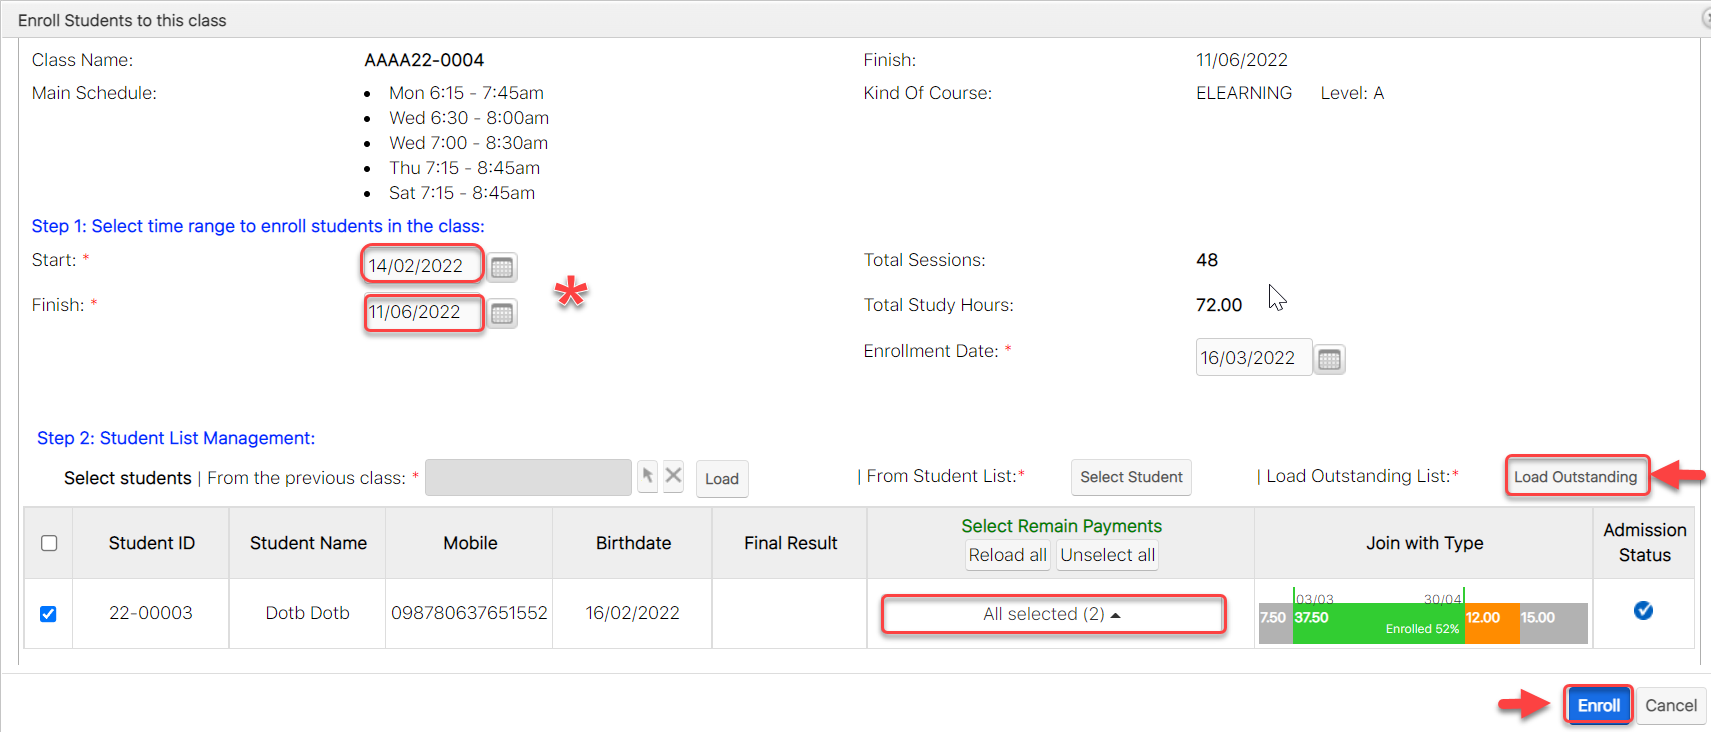
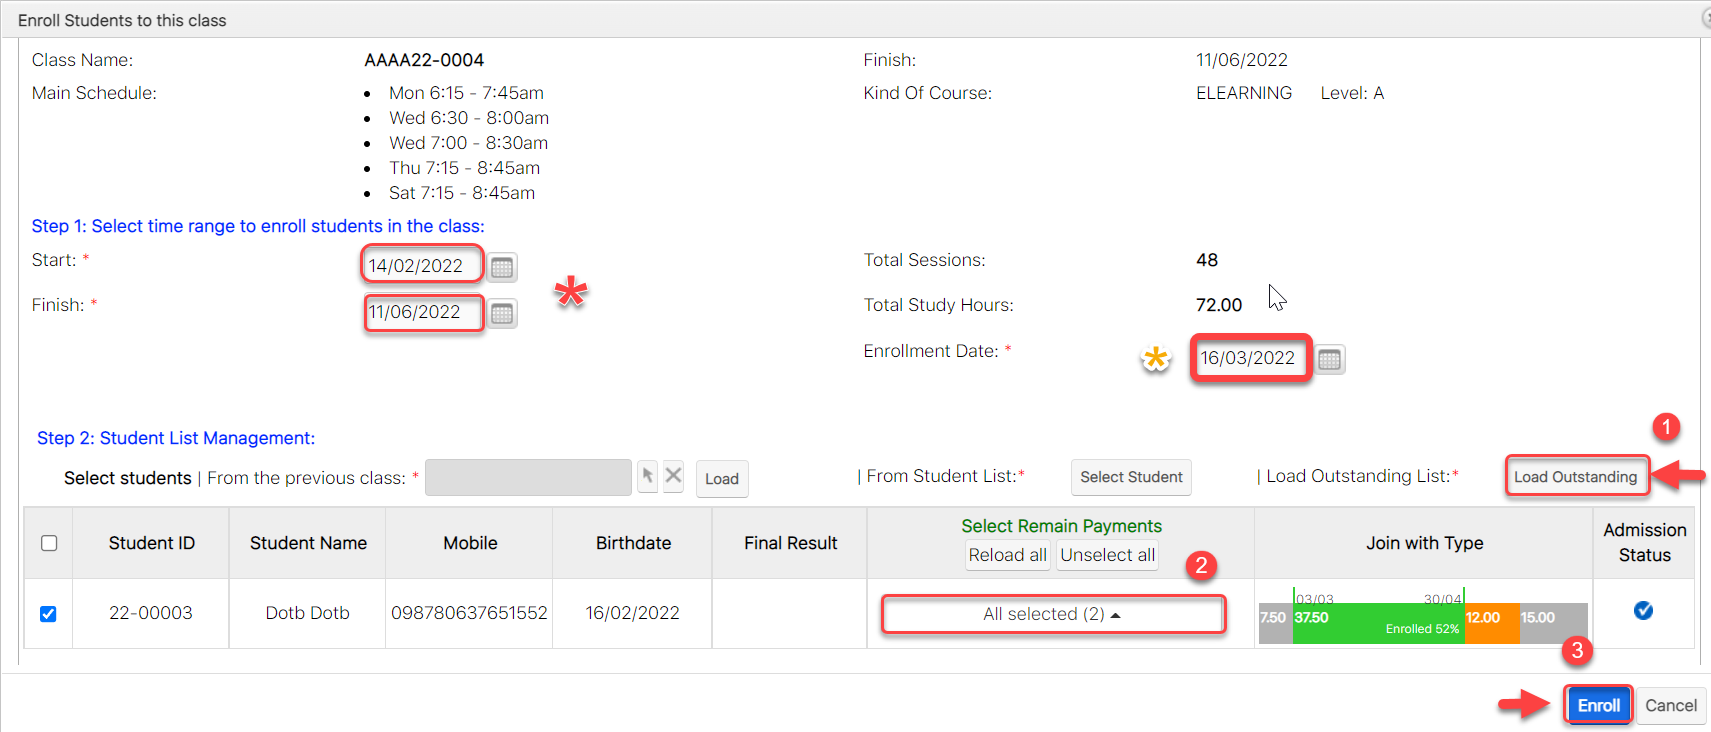
GitBook: [#342] No subject

diff --git a/tinh-nang-cap-nhat-moi/chinh-sua-clear-outstanding.md b/tinh-nang-cap-nhat-moi/chinh-sua-clear-outstanding.md
@@ -8,7 +8,7 @@ Với payment học viên mua, bạn chỉ cần chọn thời gian học viên 
 
 ![](../.gitbook/assets/HocDemo1.png)
 
-> Bước 2: Tại màn hình chi tiết Classes, Click tab Subpanel “**Student Situations**”. Sau đó click chọn "<mark style="color:green;">**Enroll**</mark>"
+> Bước 2: Tại màn hình chi tiết Classes, Click tab Subpanel “**Student Situations**”. Sau đó click chọn "<mark style="color:green;">**Enroll Students**</mark>" hoặc "**Enroll**".
 
 ![](../.gitbook/assets/edit1.png)
 
@@ -28,14 +28,16 @@ Ghi chú:
 :point\_right:Học viên k đăng kí học trong 1 khoảng thời gian (Màu xám)
 {% endhint %}
 
-> Bước 3: click <mark style="color:orange;">**Load Outstanding ,**</mark> hệ thống sẽ load danh sách học viên đang học nợ trong Lớp, tiếp theo chọn payment mà học viên đã mua để enroll vòa lớp (mặc định hẹ thống sẽ tự lấy payment nếu cùng KOC), có thể  chọn 1 hoặc nhiều học viên để ghi danh học viên (Clear Outstanding). Cuối cùng click <mark style="color:green;">**Enroll**</mark> để ghi danh học viên.
+> Bước 3: click <mark style="color:orange;">**Load Outstanding**</mark>** (1), **<mark style="color:orange;">****</mark> hệ thống sẽ load danh sách học viên đang học nợ trong Lớp, tiếp theo chọn payment (2) mà học viên đã mua để enroll vòa lớp (mặc định hẹ thống sẽ tự lấy payment nếu cùng KOC), có thể  chọn 1 hoặc nhiều học viên để ghi danh học viên (Clear Outstanding). Cuối cùng click <mark style="color:green;">**Enroll**</mark> (3 )để ghi danh học viên.
 
 ![](../.gitbook/assets/edit2.png)
 
 {% hint style="info" %}
 ****:woman\_gesturing\_ok: **Ghi Chú** :
 
-(\*):  Có thể lựa chọn khoảng thời gian clear outstandig học viên (Nếu muốn)
+(\*):  <mark style="color:blue;">**Start/Finish**</mark> : Có thể lựa chọn khoảng thời gian clear outstandig học viên (Nếu muốn)
+
+(\*) : <mark style="color:orange;">**Enrollment Date**</mark> : Có thể lựa chọn thời gian thực hiện thao tác Clear Outstanding học viên (Lưu ý : Khi chọn thời gian này doanh thu phân bổ sẽ phân bổ tính từ thời điểm bạn chọn thời gian Enrollment học viên ).
 
 :stop\_button: Add thêm học viên hàng loạt, có thể chọn hàng loạt hoặc chọn từng học viên.
 
